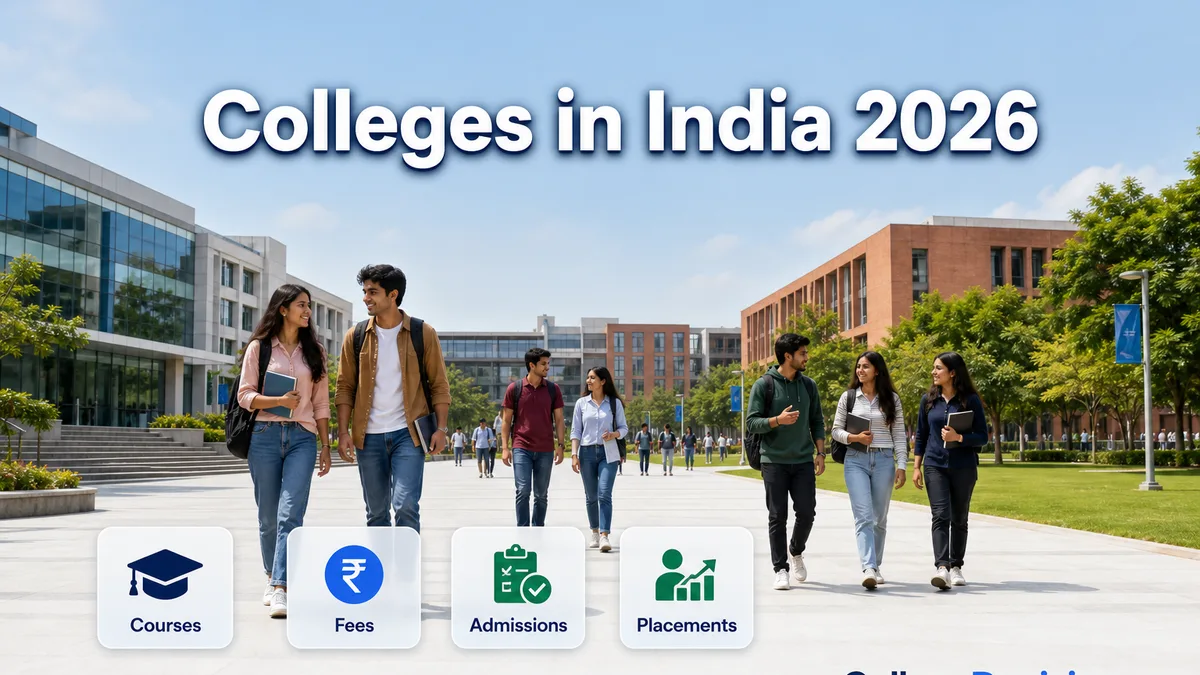
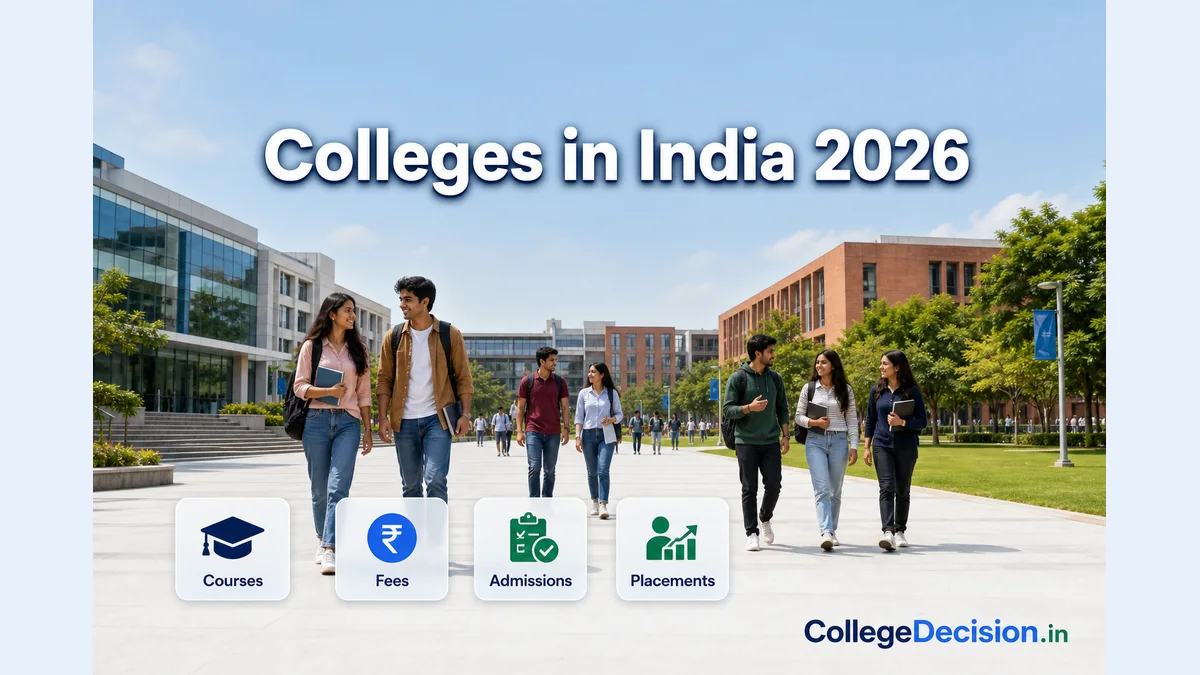
Prevent catalogue hero images from cropping title and brand text.
Keep the 16:9 heroes contained in the layout and reconvert WebP assets with contain so overlays stay fully visible.

diff --git a/app/globals.css b/app/globals.css
@@ -71,7 +71,7 @@ a{color:var(--blue);text-decoration:none}a:hover{text-decoration:underline}.site
 .card-actions{display:flex;align-items:flex-end;justify-content:space-between;gap:18px;border-top:1px solid var(--line);margin-top:18px;padding-top:14px}.card-actions small{max-width:65%;color:var(--muted)}.view-button{border:0;border-radius:8px;background:#1d4ed8;color:#fff;cursor:pointer;font-weight:750;padding:9px 13px;white-space:nowrap}.view-button:hover{background:#1e40af}.modal-backdrop{position:fixed;z-index:20;inset:0;display:flex;align-items:center;justify-content:center;background:#17203399;padding:20px}.college-modal{position:relative;max-height:90vh;overflow:auto;width:min(760px,100%);background:#fff;border-radius:16px;padding:30px;box-shadow:0 20px 70px #17203355}.college-modal h2{margin:4px 35px 4px 0}.college-modal h3{border-bottom:1px solid var(--line);margin-top:26px;padding-bottom:6px}.modal-close{position:absolute;right:18px;top:12px;border:0;background:transparent;color:var(--muted);cursor:pointer;font-size:30px;line-height:1}.detail-grid{display:grid;grid-template-columns:1fr 1fr;gap:18px}.detail-grid>div,.modal-block{background:#f8fafc;border:1px solid var(--line);border-radius:10px;padding:13px}.detail-grid p,.modal-block p{margin:5px 0}.modal-error{color:#b42318;background:#fff1f0;padding:12px;border-radius:8px}.original-summary{background:#ecfdf5;border-left:4px solid #047857;border-radius:8px;margin-top:24px;padding:13px}.original-summary p{margin:5px 0 0}
 .site-search{position:relative;flex:1;max-width:450px}.search-form{display:flex;border:1px solid #cdd9ed;border-radius:9px;overflow:hidden;background:#fff}.search-form input{min-width:0;flex:1;border:0;outline:0;padding:9px 11px;font:inherit}.search-form button{border:0;background:#2563eb;color:#fff;cursor:pointer;font-weight:700;padding:0 14px}.search-suggestions{position:absolute;z-index:10;top:calc(100% + 7px);left:0;right:0;background:#fff;border:1px solid var(--line);border-radius:10px;box-shadow:0 12px 30px #1720331a;overflow:hidden}.search-suggestions a{display:block;border-bottom:1px solid #eef2f7;padding:10px 13px}.search-suggestions strong,.search-suggestions small{display:block}.search-suggestions small{color:var(--muted)}.search-type{color:#047857;font-size:11px;font-weight:800;text-transform:uppercase}.search-suggestions p{padding:12px;margin:0;color:var(--muted)}.search-result-card .button{margin-top:4px}.no-results{margin-top:18px}.search-ideas{display:flex;flex-wrap:wrap;gap:9px;margin:18px 0}
 .footer{border-top:1px solid var(--line);padding:28px 0;color:var(--muted);margin-top:30px}.footer .wrap{display:flex;align-items:center;gap:18px}.footer-logo{width:170px;height:auto}.not-found-page{min-height:60vh;display:flex;align-items:center}.not-found-card{max-width:720px;margin:auto;text-align:center;background:#fff;border:1px solid #dbe5f2;border-radius:20px;padding:clamp(28px,6vw,64px);box-shadow:0 16px 45px #17203312}.not-found-card h1{font-size:clamp(32px,5vw,52px);line-height:1.1;margin:8px 0 16px}.not-found-copy{max-width:580px;margin:0 auto;color:var(--muted)}.not-found-actions{display:flex;justify-content:center;align-items:center;flex-wrap:wrap;gap:14px;margin-top:20px}.not-found-actions .button{margin-top:0}.text-link{font-weight:700}@media(max-width:760px){.grid{grid-template-columns:1fr}.nav-links{gap:10px;font-size:14px}.hero{padding:55px 0}.nav-inner{align-items:flex-start;padding:14px 0;gap:12px;flex-wrap:wrap}.site-search{order:3;flex-basis:100%;max-width:none}.nav-links{flex-wrap:wrap}.prose{padding:20px}.pagination{gap:7px;justify-content:center;width:100%}.page-arrow{font-size:12px;padding:0 8px}.page-number{min-width:32px}.detail-grid{grid-template-columns:1fr}.college-modal{padding:22px 18px}.card-actions{align-items:stretch;flex-direction:column}.card-actions small{max-width:none}.view-button{align-self:flex-start}.footer .wrap{align-items:flex-start;flex-direction:column}}
-.articles-hero{display:grid;grid-template-columns:1fr 1fr;align-items:stretch;overflow:hidden;background:linear-gradient(135deg,#eef5ff,#fff);border:1px solid #dbe8ff;border-radius:16px;margin-bottom:24px}.articles-hero-copy{padding:42px 30px}.articles-hero h1{font-size:38px;line-height:1.15;margin:0 0 8px}.articles-hero-copy>p:not(.eyebrow){max-width:560px;color:#52617d}.articles-hero img{width:100%;height:100%;min-height:300px;object-fit:cover}.articles-hero .button{margin-top:12px}@media(max-width:760px){.articles-hero{grid-template-columns:1fr}.articles-hero-copy{padding:30px 22px 18px}.articles-hero h1{font-size:32px}.articles-hero img{min-height:220px;max-height:280px}}
+.articles-hero{display:grid;grid-template-columns:1fr 1fr;align-items:center;overflow:hidden;background:linear-gradient(135deg,#eef5ff,#fff);border:1px solid #dbe8ff;border-radius:16px;margin-bottom:24px}.articles-hero-copy{padding:42px 30px}.articles-hero h1{font-size:38px;line-height:1.15;margin:0 0 8px}.articles-hero-copy>p:not(.eyebrow){max-width:560px;color:#52617d}.articles-hero img{width:100%;height:auto;aspect-ratio:16/9;object-fit:contain;object-position:center;background:#e8f0fb}.articles-hero .button{margin-top:12px}@media(max-width:760px){.articles-hero{grid-template-columns:1fr}.articles-hero-copy{padding:30px 22px 18px}.articles-hero h1{font-size:32px}.articles-hero img{min-height:0;max-height:none;width:100%}}
 .article-detail-image{display:block;width:100%;height:auto;max-height:none;object-fit:contain;border-radius:14px;margin:20px 0 24px;border:1px solid var(--line)}
 .article-card-image{display:block;width:100%;height:auto;max-height:420px;object-fit:contain;border-radius:10px;margin:-2px 0 18px;border:1px solid var(--line);background:#f5f8fc}
 .article-card-with-image{display:grid;grid-template-columns:minmax(250px,32%) 1fr;gap:22px;align-items:start}.article-card-with-image .article-card-image{grid-row:1;grid-column:1;margin:0;max-height:230px}.article-card-with-image .article-card-content{grid-column:2}.article-card-content{min-width:0}
